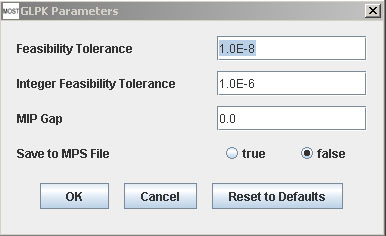
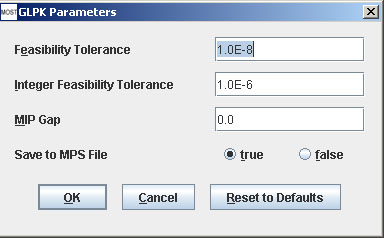
Website updates for View MPS File menu item,...
also new images of properties dialogs with keyboard shortcuts.

diff --git a/etc/backup/website/solver_parameters.html b/etc/backup/website/solver_parameters.html
@@ -158,7 +158,8 @@ A{text-decoration:none}
 
 	<blockquote><a href="http://www.gurobi.com/documentation/5.6/reference-manual/mps_format">Save to MPS File</a>
 	- MOST can write a mixed integer programming (MIP) problem to an MPS (Mathematical Programming System) file if true is
-	selected.</blockquote>
+	selected. The MPS file can be accessed from the <a href="context_menu.html#console">Console Menu</a> "View MPS File" 
+	menu item.</blockquote>
 
 	<blockquote>The <a href="http://www.gurobi.com/documentation/5.6/reference-manual/parameters">Gurobi Reference Manual</a> 
 	 contains descriptions of Gurobi solver parameters.</blockquote>
@@ -182,7 +183,9 @@ A{text-decoration:none}
 
 	<blockquote>Save to MPS File
 	- MOST can write a mixed integer programming (MIP) problem to an MPS (Mathematical Programming System) file if true is
-	selected - see GLPK Reference Manual, Appendix B.</blockquote>
+	selected - see GLPK Reference Manual, Appendix B. The MPS file can be accessed from the 
+	<a href="context_menu.html#console">Console Menu</a> "View MPS File" 
+	menu item.</blockquote>
 
 	<br>
 
